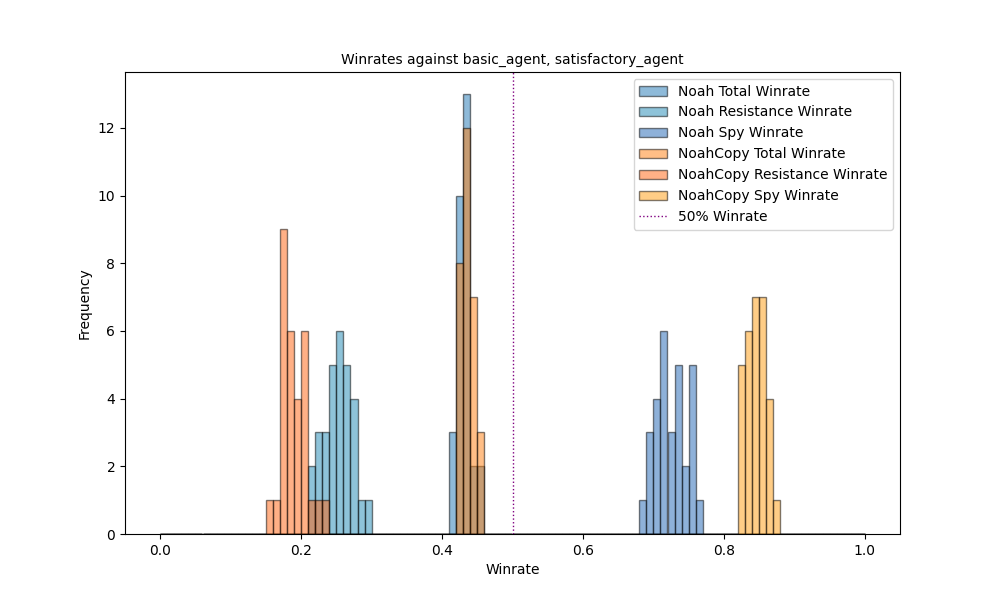
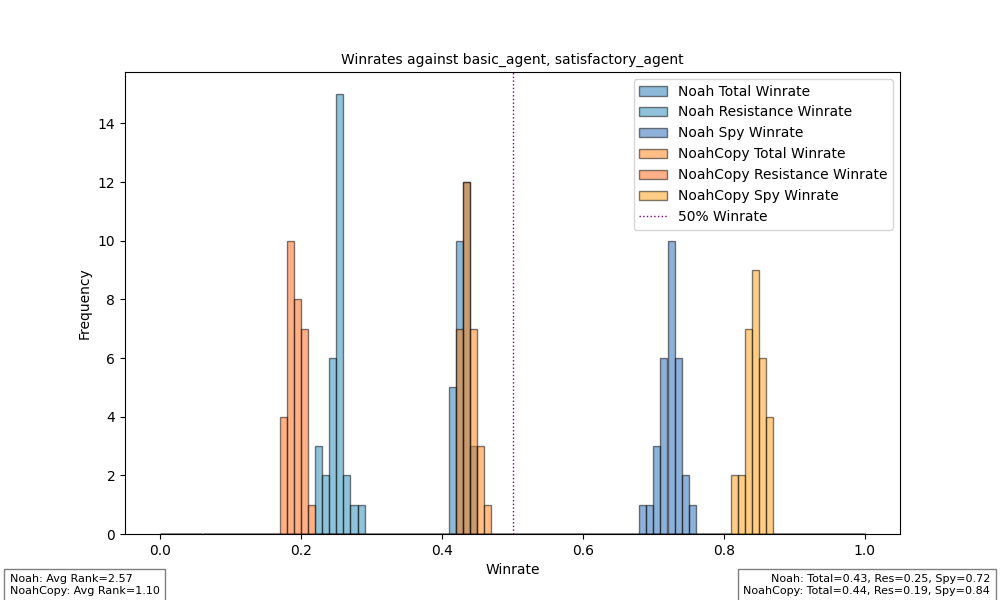
Noah3

diff --git a/the_resistance/-repo/NoahCopyCopy.py b/the_resistance/-repo/NoahCopyCopy.py
@@ -1,0 +1,98 @@
+from agent import Agent
+import random
+from itertools import combinations
+import math
+
+class NoahCopyCopy(Agent):
+    def __init__(self, name):
+        self.name = name
+
+    def __str__(self):
+        return "{} {}".format(type(self).__name__, self.name)
+
+    def __repr__(self):
+        return self.__str__()
+
+    def normalize(self):
+        total = sum(prob for prob in self.possible_worlds.values())
+        for world in self.possible_worlds:
+            self.possible_worlds[world] /= total
+    
+    def spy_probability(self, spy):
+        return sum(prob for world, prob in self.possible_worlds.items() if spy in world)
+
+    def new_game(self, number_of_players, player_number, spies):
+        n = number_of_players
+        s = super().spy_count[number_of_players]
+
+        self.players = list(range(number_of_players))
+        self.spies = spies
+        self.spy = True if self.spies else False
+        self.id = player_number
+
+        if self.spy:
+            self.possible_worlds = {world: 1 if self.id in world else 0 for world in combinations(self.players, s)}
+        else:
+            self.possible_worlds = {world: 0 if self.id in world else 1 for world in combinations(self.players, s)}
+        
+        self.normalize()
+        # print("\n".join([f"{world}: {prob}" for world, prob in self.possible_worlds.items()]))
+
+    def propose_mission(self, team_size, betrayals_required):
+        top_trusted = sorted([p for p in self.players], key=lambda p: self.spy_probability(p))
+        if self.spy:
+            spies = [player for player in top_trusted if player in self.spies and player != self.id]
+            non_spies = [player for player in top_trusted if player not in self.spies and player != self.id]
+            choice = [self.id] + spies[:betrayals_required-1] + non_spies[:team_size - len(spies)+ 1]
+        else:
+            choice = top_trusted[:team_size]
+        
+        random.shuffle(choice)
+        return choice
+
+    def vote(self, mission, proposer, betrayals_required):
+        spy_threshold = 0.4
+        if self.spy_probability(proposer) > spy_threshold:
+            return False
+
+        for member in mission:
+            if self.spy_probability(member) > spy_threshold:
+                return False
+
+        return True
+
+    def betray(self, mission, proposer, betrayals_required):
+        
+
+    def vote_outcome(self, mission, proposer, votes):
+        pass
+
+    def mission_outcome(self, mission, proposer, num_betrayals, mission_success):
+        for world in self.possible_worlds:
+            # assuming this world contains the set of spies, how many were in the mission?
+            num_spies_on_mission = sum(1 for agent in world if agent in mission)
+
+            if not mission_success:
+                # Discard any world that does not include at least num_betrayals spies in it that were in the mission
+                if num_spies_on_mission < num_betrayals:
+                    self.possible_worlds[world] = 0
+
+            likelihood = 0
+            if mission_success:
+                likelihood = 0.1 if num_spies_on_mission else 0.9
+            else: 
+                likelihood = 0.9 if num_spies_on_mission else 0.1
+            
+            self.possible_worlds[world] = likelihood * self.possible_worlds[world]
+        
+        self.normalize()
+
+    def round_outcome(self, rounds_complete, missions_failed):
+        # print(f"(agent {self.id}) ROUND {rounds_complete} WITH {missions_failed} fails: {"\n".join([f"{world}: {prob}" for world, prob in self.possible_worlds.items()])}")
+        # print(f"(agent {self.id}) ROUND {rounds_complete} WITH {missions_failed} fails")
+        # choices = [(p, round(self.spy_probability(p), 3)) for p in self.players]
+        # print(f"(agent {self.id}) ROUND {rounds_complete} WITH {missions_failed} fails: {choices}")
+        pass
+
+    def game_outcome(self, spies_win, spies):
+        pass

diff --git a/the_resistance/-repo/NoahCopy.py b/the_resistance/-repo/NoahCopy.py
@@ -1,0 +1,89 @@
+from agent import Agent
+import random
+from itertools import combinations
+import math
+
+class NoahCopy(Agent):
+    def __init__(self, name):
+        self.name = name
+
+    def __str__(self):
+        return "{} {}".format(type(self).__name__, self.name)
+
+    def __repr__(self):
+        return self.__str__()
+
+    def normalize(self):
+        total = sum(prob for prob in self.possible_worlds.values())
+        for world in self.possible_worlds:
+            self.possible_worlds[world] /= total
+    
+    def spy_probability(self, spy):
+        return sum(prob for world, prob in self.possible_worlds.items() if spy in world)
+
+    def new_game(self, number_of_players, player_number, spies):
+        n = number_of_players
+        s = super().spy_count[number_of_players]
+
+        self.players = list(range(number_of_players))
+        self.spies = spies
+        self.spy = True if self.spies else False
+        self.id = player_number
+
+        if self.spy:
+            self.possible_worlds = {world: 1 if self.id in world else 0 for world in combinations(self.players, s)}
+        else:
+            self.possible_worlds = {world: 0 if self.id in world else 1 for world in combinations(self.players, s)}
+        
+        self.normalize()
+
+    def propose_mission(self, team_size, betrayals_required):
+        top_trusted = sorted([p for p in self.players], key=lambda p: self.spy_probability(p))
+        if self.spy:
+            spies = [player for player in top_trusted if player in self.spies and player != self.id]
+            non_spies = [player for player in top_trusted if player not in self.spies and player != self.id]
+            choice = [self.id] + spies[:betrayals_required-1] + non_spies[:team_size - len(spies)+ 1]
+        else:
+            choice = top_trusted[:team_size]
+        
+        random.shuffle(choice)
+        return choice
+
+    def vote(self, mission, proposer, betrayals_required):
+        return True
+
+    def betray(self, mission, proposer, betrayals_required):
+        return True
+
+    def vote_outcome(self, mission, proposer, votes):
+        pass
+
+    def mission_outcome(self, mission, proposer, num_betrayals, mission_success):
+        for world in self.possible_worlds:
+            # assuming this world contains the set of spies, how many were in the mission?
+            num_spies_on_mission = sum(1 for agent in world if agent in mission)
+
+            if not mission_success:
+                # Discard any world that does not include at least num_betrayals spies in it that were in the mission
+                if num_spies_on_mission < num_betrayals:
+                    self.possible_worlds[world] = 0
+
+            likelihood = 0
+            if mission_success:
+                likelihood = 0.1 if num_spies_on_mission else 0.9
+            else: 
+                likelihood = 0.9 if num_spies_on_mission else 0.1
+            
+            self.possible_worlds[world] = likelihood * self.possible_worlds[world]
+        
+        self.normalize()
+
+    def round_outcome(self, rounds_complete, missions_failed):
+        # print(f"(agent {self.id}) ROUND {rounds_complete} WITH {missions_failed} fails: {"\n".join([f"{world}: {prob}" for world, prob in self.possible_worlds.items()])}")
+        # print(f"(agent {self.id}) ROUND {rounds_complete} WITH {missions_failed} fails")
+        # choices = [(p, round(self.spy_probability(p), 3)) for p in self.players]
+        # print(f"(agent {self.id}) ROUND {rounds_complete} WITH {missions_failed} fails: {choices}")
+        pass
+
+    def game_outcome(self, spies_win, spies):
+        pass

diff --git a/the_resistance/-repo/Noah3.py b/the_resistance/-repo/Noah3.py
@@ -3,7 +3,7 @@ import random
 from itertools import combinations
 import math
 
-class NoahCopy(Agent):
+class Noah3(Agent):
     def __init__(self, name):
         self.name = name
 
@@ -29,21 +29,21 @@ class NoahCopy(Agent):
         self.spies = spies
         self.spy = True if self.spies else False
         self.id = player_number
+        print(f"(agent {self.id}) NEW GAME WITH {number_of_players} PLAYERS, {s} SPIES, AND {spies}")
 
         if self.spy:
-            self.possible_worlds = {world: 1 if self.id in world else 0 for world in combinations(self.players, s)}
+            self.possible_worlds = {world: 1 for world in combinations(self.players, s)} #changed this
         else:
             self.possible_worlds = {world: 0 if self.id in world else 1 for world in combinations(self.players, s)}
         
         self.normalize()
-        # print("\n".join([f"{world}: {prob}" for world, prob in self.possible_worlds.items()]))
 
     def propose_mission(self, team_size, betrayals_required):
         top_trusted = sorted([p for p in self.players], key=lambda p: self.spy_probability(p))
         if self.spy:
             spies = [player for player in top_trusted if player in self.spies and player != self.id]
             non_spies = [player for player in top_trusted if player not in self.spies and player != self.id]
-            choice = [self.id] + spies[:betrayals_required-1] + non_spies[:team_size - len(spies)+ 1]
+            choice = [self.id] + spies[betrayals_required-1:] + non_spies[team_size - len(spies)+ 1:] # is this right?
         else:
             choice = top_trusted[:team_size]
         
@@ -68,6 +68,7 @@ class NoahCopy(Agent):
                 # Discard any world that does not include at least num_betrayals spies in it that were in the mission
                 if num_spies_on_mission < num_betrayals:
                     self.possible_worlds[world] = 0
+                    continue
 
             likelihood = 0
             if mission_success:
@@ -80,10 +81,6 @@ class NoahCopy(Agent):
         self.normalize()
 
     def round_outcome(self, rounds_complete, missions_failed):
-        # print(f"(agent {self.id}) ROUND {rounds_complete} WITH {missions_failed} fails: {"\n".join([f"{world}: {prob}" for world, prob in self.possible_worlds.items()])}")
-        # print(f"(agent {self.id}) ROUND {rounds_complete} WITH {missions_failed} fails")
-        # choices = [(p, round(self.spy_probability(p), 3)) for p in self.players]
-        # print(f"(agent {self.id}) ROUND {rounds_complete} WITH {missions_failed} fails: {choices}")
         pass
 
     def game_outcome(self, spies_win, spies):

diff --git a/REPORT.md b/REPORT.md
@@ -28,3 +28,16 @@ Realising 1 is not a good 'probability'. The better starting probability is 1/(n
 How to calculate odds
 
 explain that you always want to pick the most trusted crew. 
+
+```py
+        spy_threshold = 0.7
+        if self.spy_probability(proposer) > spy_threshold:
+            return False
+
+        for member in mission:
+            if self.spy_probability(member) > spy_threshold:
+                return False
+
+        return True
+```
+wasn't a good way of voting.
